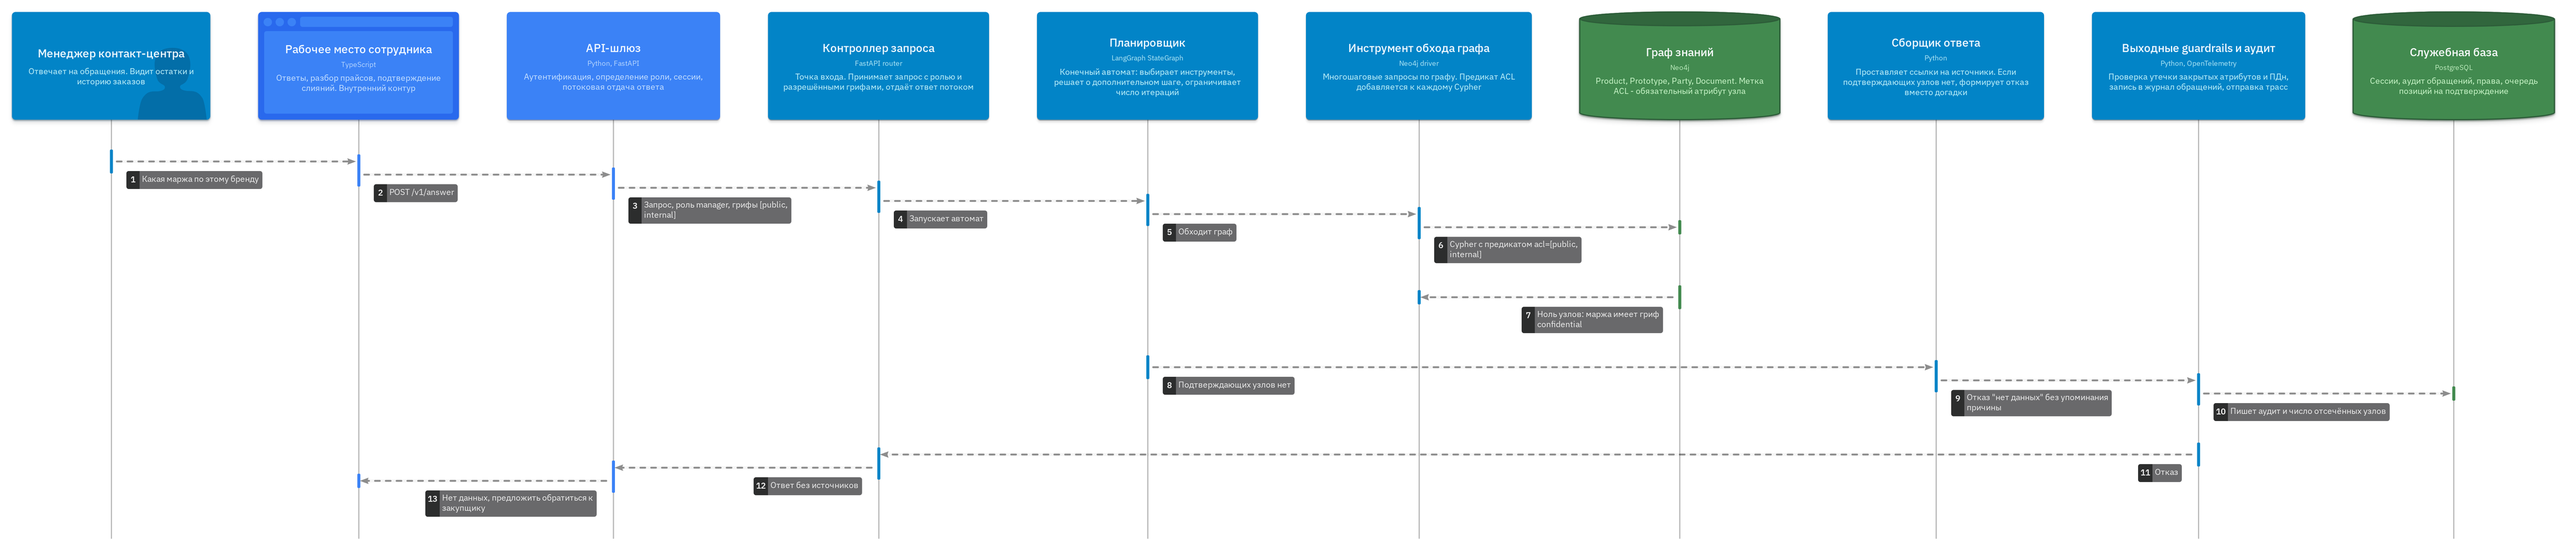
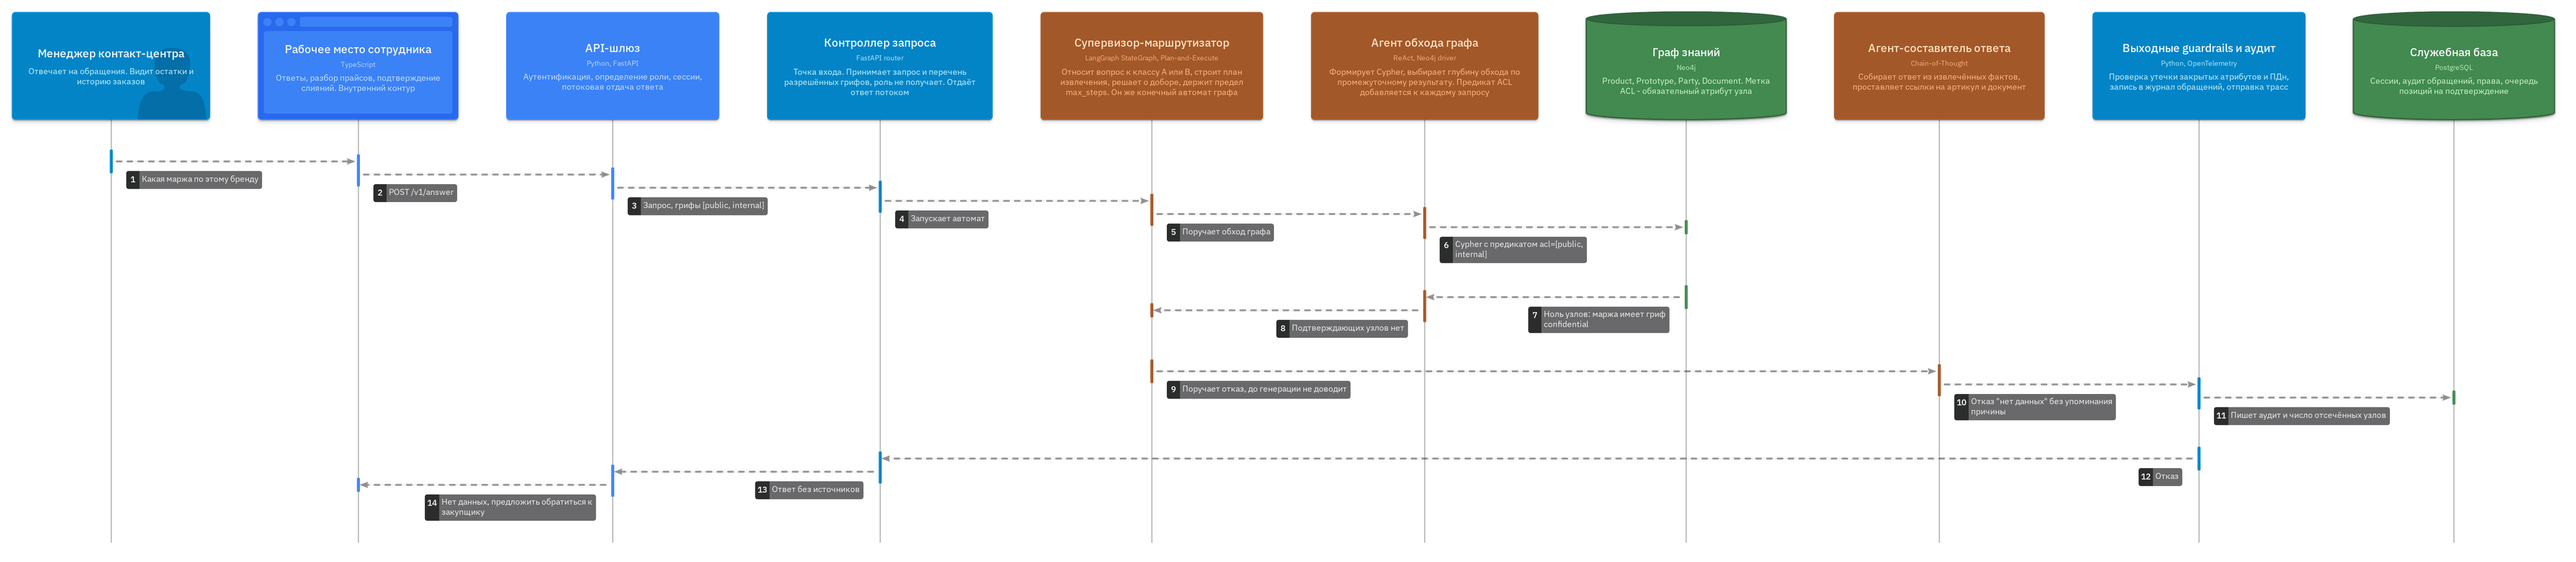
feat(c4): перестроить C3 в агентов и детерминированные компоненты

diff --git a/docs/diagrams/README.md b/docs/diagrams/README.md
@@ -1,7 +1,7 @@
 # Диаграммы
 
 Модель C4 описана кодом на [LikeC4](https://likec4.dev), а не нарисована:
-элементы объявляются один раз, а все шесть представлений строятся из одной
+элементы объявляются один раз, а все семь представлений строятся из одной
 модели. При рисовании каждая диаграмма живёт отдельно, и переименование
 контейнера означает правку во всех.
 
@@ -13,6 +13,7 @@
 | `L3-agent.png`      | Уровень 3, компоненты сервиса агента         |
 | `Seq-answer-1.png`  | Сценарий 1а: приём запроса и извлечение      |
 | `Seq-answer-2.png`  | Сценарий 1б: генерация ответа и доставка     |
+| `Seq-answer-simple.png` | Сценарий 1в: простой вопрос, короткий путь   |
 | `Seq-denied.png`    | Сценарий 2: запрос данных вне уровня доступа |
 
 PNG - производные файлы: правится `model.c4`, картинки пересобираются.
@@ -71,11 +72,24 @@ npx likec4 export png -o out --seq --light docs/diagrams
 лежит на пути пользовательского сценария, поэтому шаги диаграмм последовательности
 ссылаются на его компоненты, а не на абстракции.
 
+Оранжевым показаны агенты, синим - детерминированные компоненты. Различие не
+оформительское: у агента поведение зависит от вывода модели, у компонента нет.
+Поэтому guardrails, переранжировщик и запись аудита агентами не сделаны -
+проверяемость guardrails на приёмке держится ровно на том, что их результат
+воспроизводим. Обоснование состава - [ADR-0007](../adr/0007-multiagent-online-path.md).
+
 **Сценарии.** Сценарий 1 разбит на две диаграммы. Причина не косметическая:
 17 линий жизни в одной диаграмме нечитаемы, а граница между извлечением фактов и
-генерацией ответа совпадает с фазами автомата. Сценарий 2 показывает отказ по
-правам: он выглядит как отсутствие данных, поскольку фильтр по грифу отсекает
-узлы при выборке, а не после формирования ответа.
+генерацией ответа совпадает с фазами автомата.
+
+Сценарий 1в показывает тот же вопрос, отнесённый супервизором к простому классу:
+обход графа и сверка не выполняются, вызовов модели два вместо пяти. Он нужен
+рядом с 1а и 1б, иначе адаптивная маршрутизация остаётся утверждением в ADR, а
+на диаграммах виден только полный путь.
+
+Сценарий 2 показывает отказ по правам: он выглядит как отсутствие данных,
+поскольку фильтр по грифу отсекает узлы при выборке, а не после формирования
+ответа.
 
 ## Ещё не сделано
 
